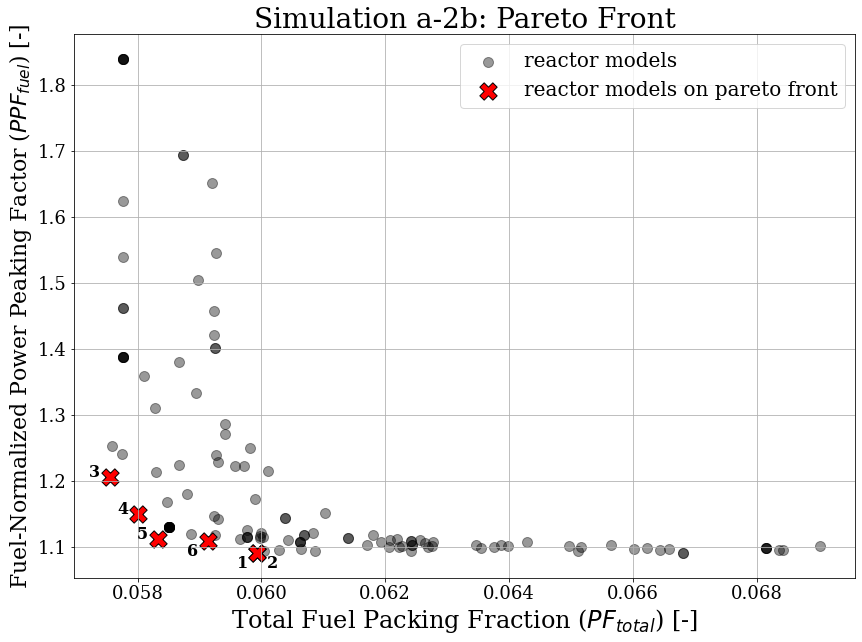
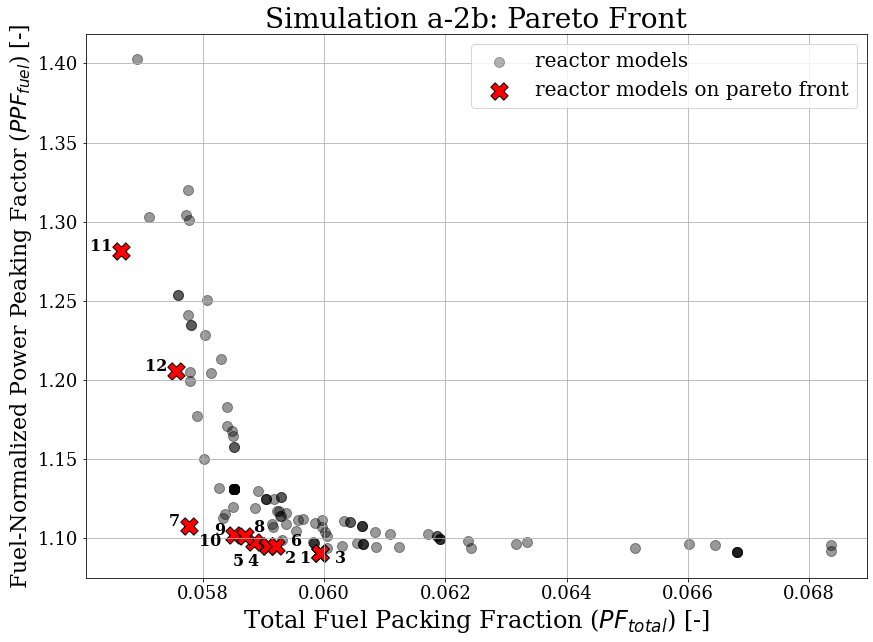
writing

diff --git a/docs/ahtr_rollo_assem.tex b/docs/ahtr_rollo_assem.tex
@@ -847,7 +847,7 @@ confirming that simulation a-2b converges by generation 3.
 Figure \ref{fig:assem-obj-2-pfppf-pareto} shows a plot of the final generation's reactor 
 models' $PF_{total}$ against $PPF_{fuel}$, crosses mark the reactor models that fall on 
 the Pareto front.
-Figure \ref{fig:assem-obj-2-pfppf-pareto-distr} shows the 6 TRISO packing fraction 
+Figure \ref{fig:assem-obj-2-pfppf-pareto-distr} shows the 12 TRISO packing fraction 
 distributions that fall on the Pareto front. 
 \begin{figure}[htbp!]
     \begin{subfigure}{\textwidth}
@@ -872,7 +872,7 @@ distributions that fall on the Pareto front.
     \begin{subfigure}{\textwidth}
         \centering
         \includegraphics[width=\linewidth]{assem-obj-2-pfppf-pareto-distr.png}
-        \caption{TRISO distribution for the 6 reactor models on the Pareto front.
+        \caption{TRISO distribution for the 12 reactor models on the Pareto front.
         Numbered reactor models correspond to numbered crosses in Figure 
         \ref{fig:assem-obj-2-pfppf-pareto}. }
         \label{fig:assem-obj-2-pfppf-pareto-distr} 
@@ -887,23 +887,17 @@ distributions that fall on the Pareto front.
 Figure \ref{fig:assem-obj-2-pfppf-pareto} shows that minimize $PF_{total}$ and 
 minimize $PPF_{fuel}$ are contrasting objectives. 
 In Figure \ref{fig:assem-obj-2-pfppf}, the one-third assembly model with 
-the most-minimized $PF_{total}$ and highest $PPF_{fuel}$ is reactor model 3. 
-Reactor model 3 has an oscillating TRISO distribution along the both the 
-x-axis and y-axis, and a packing fraction standard deviation of $0.032$ across the 
+the most-minimized $PF_{total}$ and highest $PPF_{fuel}$ is reactor model 11. 
+Reactor model 11 has an oscillating TRISO distribution along the both the 
+x-axis and y-axis, and a packing fraction standard deviation of $0.053$ across the 
 one-third assembly. 
-Along the x-axis, the distribution peaks at the 5th and 10th fuel cell columns 
-(at 14.3cm and 24.5cm) and has minimum points at the 2nd, 3rd, and 8th columns 
-(at 8.2cm, 10.3cm, and 20.5cm).
-The 5th and 10th columns have the largest y-axis variation of $\sim0.09$ with peaks 
-of $PF\approx 0.12$.
-The 2nd, 3rd, and 8th columns have the smallest y-axis variation of $\sim0.03$ with 
-minimums of $PF\approx0.013$.
-Along the y-axis, the distribution peaks at the top and bottom row (at 3.5cm and 
-19.8cm) and has a minimum point at the 3rd row (at 10.0cm). 
-The top and bottom row have the largest x-axis variation of $\sim0.09$ with 
-peaks of $PF\approx0.12$. 
-The 3rd row has the smallest x-axis variation of $\sim0.03$ with minimums of 
-$PF\approx0.011$. 
+Along the y-axis, the distribution peaks at the 3rd and 4th fuel cell rows (at 
+10.0cm amd 13.3cm) and has minimum points at the 1st, 5th, and 6th fuel cell rows 
+(at 3.5cm, 16.5cm, 19.8cm). 
+The 3rd and 4th rows have the largest x-axis variation of $\sim0.14$ with 
+peaks of $PF\approx0.17$. 
+The 1st, 5th, and 6th row has the smallest x-axis variation of $\sim0.02$ with 
+minimums of $PF\approx0.005$. 
 
 In Figure \ref{fig:assem-obj-2-pfppf}, the one-third assembly model with 
 the most-minimized $PPF_{fuel}$ and highest $PF_{total}$ is reactor model 1.
